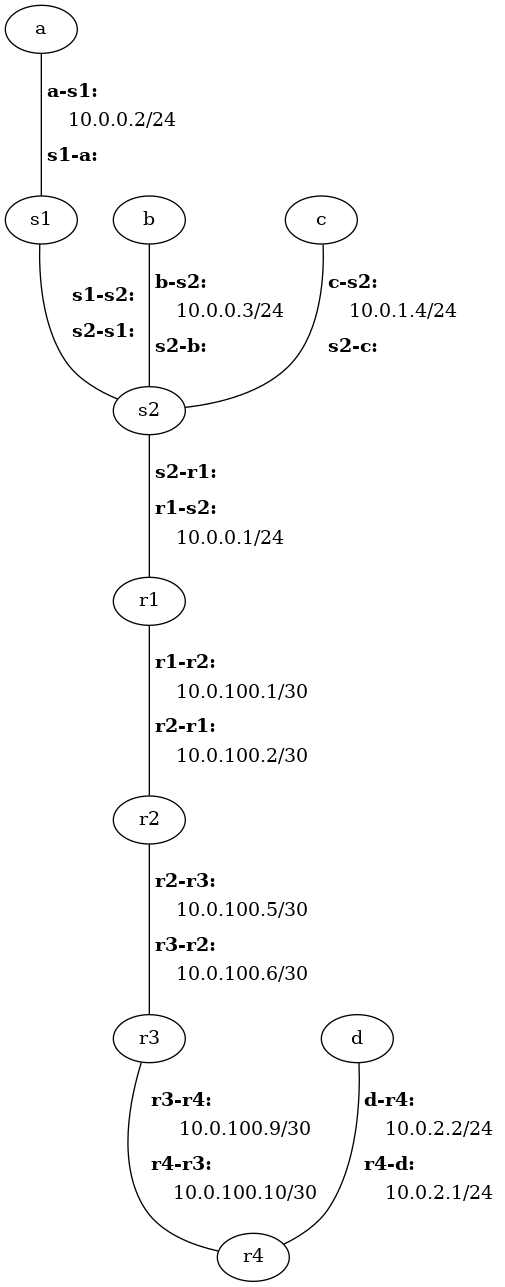
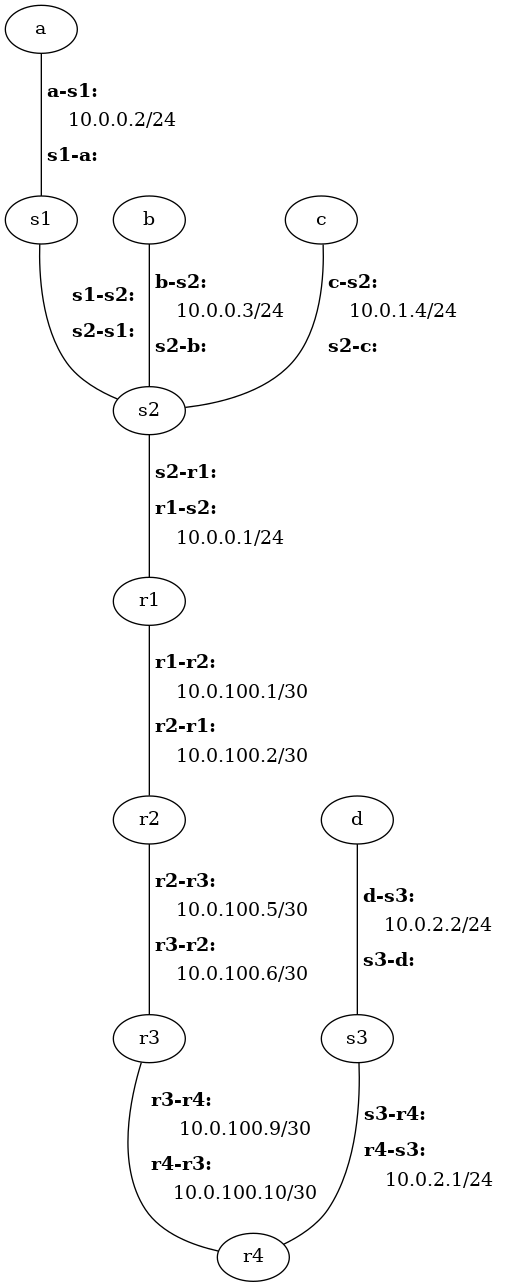
Add switch s3, for additional packet sniffing

diff --git a/lab-full-stack-network/README.md b/lab-full-stack-network/README.md
@@ -50,7 +50,7 @@ and one interface of router `r1` are all connected via two switches, `s1` and
 another VLAN.  Therefore, you should expect no link-layer activity between `a`
 and `c`, for example.  Routers `r1`, `r2`, `r3`, and `r4` are directly
 connected to one another, in that order.  Finally host `d` is connected to
-router `r4`, in another LAN.
+router `r4` via switch `s3`, in another LAN.
 
 ![net.cfg](net.png)
 
